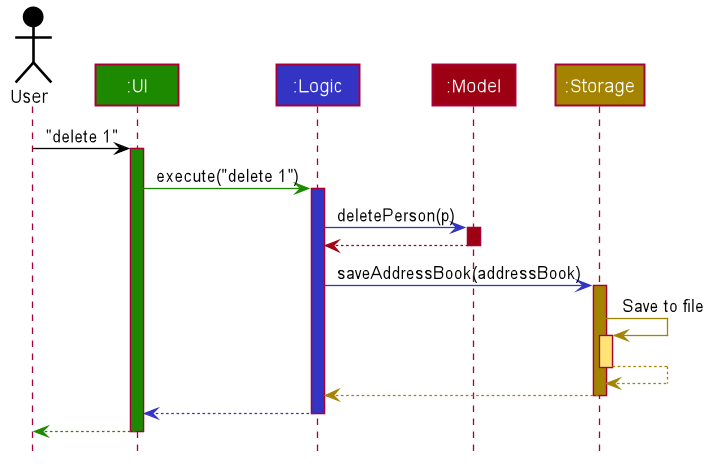
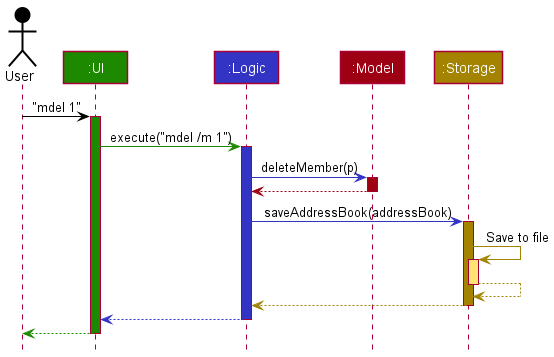
Update Developer Guide

diff --git a/docs/DeveloperGuide.md b/docs/DeveloperGuide.md
@@ -3,9 +3,10 @@ layout: page
 title: Developer Guide
 ---
 
-Ailurus is a **desktop app** that helps to organise committees account for details of their members. It provides users with convenient viewing and editing access to all information, thus providing much convenience in their work.
+Ailurus is a **desktop application** designed to aid Organising Committees from the Computing Faculty in managing and accounting for their administrative concerns. It provides users with the ability to plan and manage events and tasks for their members. 
 
-The Developer Guide seeks to provide detailed documentation for developers to set up their environment, and understand the architecture and the different components, as well as their implementations in various commands. It also informs developers of the requirements and instructions for manual testing for the Ailurus product.
+The Developer Guide seeks to provide detailed documentation for developers to set up their environment, and understand the architecture and the different components, as well as their implementations in various commands.
+It also informs developers of the requirements and instructions for manual testing for Ailurus.
 
 * Table of Contents
 {:toc}
@@ -56,7 +57,7 @@ The rest of the App consists of four components.
 
 **How the architecture components interact with each other**
 
-The *Sequence Diagram* below shows how the components interact with each other for the scenario where the user issues the command `mdel 1`.
+The *Sequence Diagram* below shows how the components interact with each other for the scenario where the user issues the command `mdel /m 1`.
 
 <img src="images/ArchitectureSequenceDiagram.png" width="574" />
 
@@ -101,20 +102,6 @@ or `Member` would update the `EventListPanel` and `MemberListPanel` to show thei
 and `MemberCard` accordingly. Each of the `EventCard` and `MemberCard` would display the fields under the 
 corresponding `Event` and `Member` objects as discussed under [Model Component](#model-component).
 
-However, there are problems faced when the fields inside `Event` and `Member` are being changed. There seems to be 
-some difficulty in updating the `MemberCard` when a `Task` object is being created under the `Member` object, or is 
-removed. Similarly, the same problem also lies in `EventCard` not updating when a `Member` object associated with 
-the `Event` object is being removed.
-
-#### Future Plans for UI
-
-To address the above-mentioned bug where the `EventCard` and `MemberCard` are not updated spontaneously, we decided 
-to implement a third column featuring `Task` objects. As such, we are able to totally remove the `Member` and `Task` 
-from `EventCard` and `MemberCard` respectively. 
-
-We plan to support this implementation by using the `elist`, `mlist` and `tlist` commands to determine what is being 
-displayed in the `MainWindow`.
-
 ### Logic component
 
 **API** : [`Logic.java`](https://github.com/AY2122S1-CS2103T-T15-2/tp/tree/master/src/main/java/seedu/address/logic/Logic.java)
@@ -127,11 +114,12 @@ How the `Logic` component works:
 1. When `Logic` is called upon to execute a command, it uses the `AddressBookParser` class to parse the user command.
 1. This results in a `Command` object (more precisely, an object of one of its subclasses e.g., `MaddCommand`) which is executed by the `LogicManager`.
 1. The command can communicate with the `Model` when it is executed (e.g. to add a member).
-1. The result of the command execution is encapsulated as a `CommandResult` object which is returned back from `Logic`.
+1. The result of the command execution is encapsulated as a `CommandResult` object which is returned from `Logic`.
 
-The Sequence Diagram below illustrates the interactions within the `Logic` component for the `execute("mdel 1")` API call.
+The Sequence Diagram below illustrates the interactions within the `Logic` component for the `execute("mdel /m 1")` 
+API call.
 
-![Interactions Inside the Logic Component for the `mdel 1` Command](images/DeleteSequenceDiagram.png)
+![Interactions Inside the Logic Component for the `mdel /m 1` Command](images/DeleteSequenceDiagram.png)
 
 <div markdown="span" class="alert alert-info">:information_source: **Note:** The lifeline for `DeleteCommandParser` should end at the destroy marker (X) but due to a limitation of PlantUML, the lifeline reaches the end of diagram.
 </div>
@@ -152,7 +140,7 @@ Here is the Activity Diagram for a User when choosing the module and command to 
 
 New feature: Events
 * Events can be added and deleted from event list via `eadd` and `edel` commands
-* The participating members can be listed using the command `mlist /v EVENT_INDEX`
+* The participating members can be listed using the command `mlist /e EVENT_INDEX`
 * New events created can have many participants selected from member list.
 * <u>Design Decision</u>: Instead of only allowing adding of events and creating a command
 for adding participants separately, eadd command allows creation of complete event to
@@ -163,8 +151,6 @@ for familiarity with similar commands for other modules.
 #### Future Plans for Event
 
 Future plans for Events
-* Include adding and deleting of participants, as well as marking whether a participant has attended the event.
-* Include updating of event with participants and different name
 * Include searching for the list of events for a participant
 * Include filtering of events by month or events that are happening today.
 * Include sorting of events by date, name or number of participants.
@@ -182,30 +168,30 @@ The operations are exposed in the `Model` interface as `Model#getFilteredMemberl
 
 Given below is an example usage scenario:
 
-The user executes `tadd /n take attendance /m 1 /m 2`. The parser will be called upon to create a TaddCommandParser.
-The parser will then parse the input to create a TaddCommand with task name as "take attendance" and member ids 1 and 2.
-This command will add the task "take attendance" to the first and second member of the member list.
+The user executes `tadd /n Take Attendance /d 21/10/2021 23:59 /m 1 /m 2`. The parser will be called upon to create a TaddCommandParser.
+The parser will then parse the input to create a TaddCommand with task name as "Take Attendance", task deadline of "21/10/2021 23:59" and member indexes 1 and 2.
+This command will add the task "Take Attendance" to the first and second member of the member list.
 
 ### Delete a task feature for a member
 
 #### Current Implementation for deleting tasks
 
 The proposed feature is achieved by getting the member(s) from the filtered member list
-and use API from the model manager to delete the task with given task id from the member with given member id.
+and use API from the model manager to delete the task with given task index from the member with given member index.
 
 The operations are exposed in the `Model` interface as `Model#getFilteredMemberlist()` and `Model#deleteTask()`.
 
 Given below is an example usage scenario:
 
-The user executes `tdel /t 1 /m 1`. The parser will be called upon to create a TdelCommandParser.
-The parser will then parse the input to create a TdelCommand with task id as 1 and member id as 1.
-This command will delete the first task from the task list of the first member of the member list.
+The user executes `tdel /t 1`. The parser will be called upon to create a TdelCommandParser.
+The parser will then parse the input to create a TdelCommand with task index as 1.
+This command will delete the first task from the task list.
 
 ### List tasks feature for a member
 
 #### Current Implementation for lists
 
-The proposed feature is achieved by getting the member with given member id from the filtered member list
+The proposed feature is achieved by getting the member with given member index from the filtered member list
 and use API from the model manager to list all the tasks of the member.
 
 The operations are exposed in the `Model` interface as `Model#getFilteredMemberlist()` and `Model#updateFilteredTaskList()`.
@@ -213,7 +199,7 @@ The operations are exposed in the `Model` interface as `Model#getFilteredMemberl
 Given below is an example usage scenario:
 
 The user executes `tlist /m 1`. The parser will be called upon to create a TlistCommandParser.
-The parser will then parse the input to create a TlistCommand with member id as 1.
+The parser will then parse the input to create a TlistCommand with member index as 1.
 This command will display all the tasks of the first member of the member list.
 
 ### Model component
@@ -306,7 +292,7 @@ Step 1. The user launches the application for the first time. The `VersionedAddr
 
 ![UndoRedoState0](images/UndoRedoState0.png)
 
-Step 2. The user executes `mdel 5` command to delete the 5th member in the address book. The `mdel` command calls `Model#commitAddressBook()`, causing the modified state of the address book after the `mdel 5` command executes to be saved in the `addressBookStateList`, and the `currentStatePointer` is shifted to the newly inserted address book state.
+Step 2. The user executes `mdel /m 5` command to delete the 5th member in the address book. The `mdel` command calls `Model#commitAddressBook()`, causing the modified state of the address book after the `mdel /m 5` command executes to be saved in the `addressBookStateList`, and the `currentStatePointer` is shifted to the newly inserted address book state.
 
 ![UndoRedoState1](images/UndoRedoState1.png)
 
@@ -341,13 +327,10 @@ The `redo` command does the opposite — it calls `Model#redoAddressBook()`,
 
 </div>
 
-Step 5. The user then decides to execute the command `list`. Commands that do not modify the address book, such as `list`, will usually not call `Model#commitAddressBook()`, `Model#undoAddressBook()` or `Model#redoAddressBook()`. Thus, the `addressBookStateList` remains unchanged.
+Step 5. The user then decides to execute the command `mlist`. Commands that do not modify the address book, such as `mlist`, will usually not call `Model#commitAddressBook()`, `Model#undoAddressBook()` or `Model#redoAddressBook()`. 
+Thus, the `addressBookStateList` remains unchanged.
 
 ![UndoRedoState4](images/UndoRedoState4.png)
-
-Step 6. The user executes `clear`, which calls `Model#commitAddressBook()`. Since the `currentStatePointer` is not pointing at the end of the `addressBookStateList`, all address book states after the `currentStatePointer` will be purged. Reason: It no longer makes sense to redo the `add /n David …` command. This is the behavior that most modern desktop applications follow.
-
-![UndoRedoState5](images/UndoRedoState5.png)
 
 The following activity diagram summarizes what happens when a user executes a new command:
 
